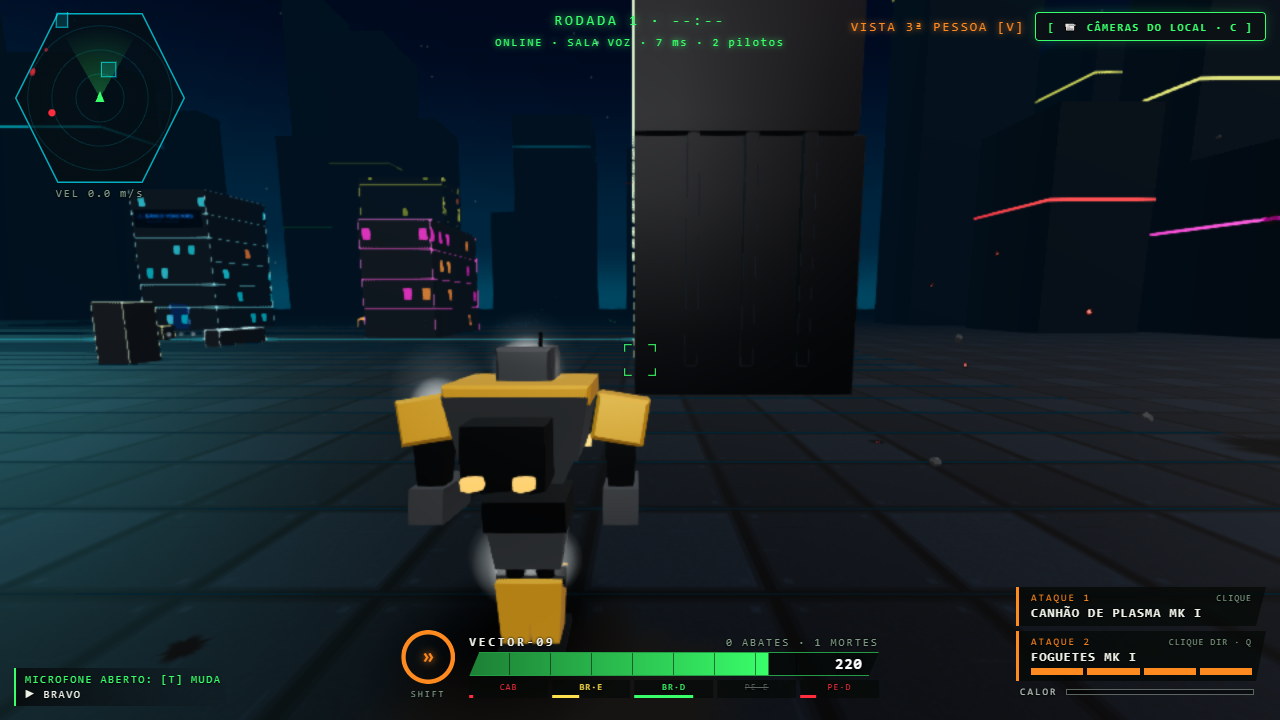
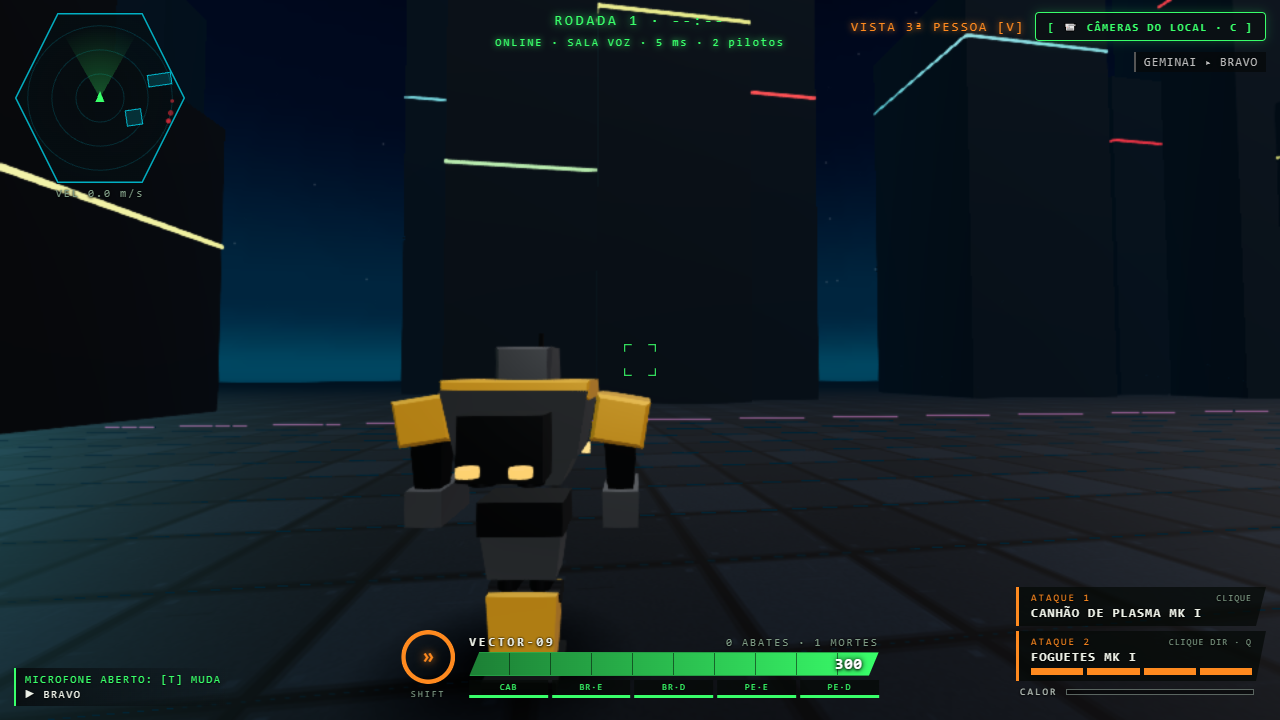
fix(voz): repintar a lista da REDE ao entrar na voz (o botão de mudo só aparecia no evento seguinte da sala) (P228)

diff --git a/client/src/core/Game.ts b/client/src/core/Game.ts
@@ -1328,6 +1328,7 @@ export class Game {
       this.voz = voz;
       this.aplicarVoz(this.settings.value);
       if (this.vozId !== null) voz.entrouNaSala(this.vozId);
+      this.pintarPilotos(); // entrar na voz liga o botão de mudo da lista da REDE (P228): sem isto ele só aparecia no próximo evento da sala
     } catch {
       // O download do pedaço falhou (rede): a voz fica desligada e a próxima mudança de configuração tenta de novo.
     } finally {

diff --git a/.decepticons/ESTADO_ATUAL.md b/.decepticons/ESTADO_ATUAL.md
@@ -21,7 +21,7 @@
 
 ## O MUDO POR JOGADOR NO CHAT DE VOZ — Claude, 20/10 (branch `claude/voz-mudo`, P228)
 
-**Feito:** em Esc > REDE, cada piloto tem **[ SILENCIAR VOZ ]** (aparece só para quem está na voz); silenciar desliga a faixa dele (custo zero), o indicador de quem fala some, e vale até sair da sala. 7 mutações pegas e a prova no Chrome real (`medicoes/voz-jogo.mjs`). **Falta (R13):** a denúncia (decisão do Comandante: para onde vai a queixa) e o mudo sem pausar a partida.
+**Feito:** em Esc > REDE, cada piloto tem **[ SILENCIAR VOZ ]** (aparece só para quem está na voz); silenciar desliga a faixa dele (custo zero), o indicador de quem fala some, e vale até sair da sala. 7 mutações pegas e a prova no Chrome real (`medicoes/voz-jogo.mjs`: o botão aparece, silencia o BRAVO falando e desfaz). **A bancada achou um defeito meu:** o botão só aparecia no próximo evento da sala, porque ninguém repintava a lista ao entrar na voz; corrigido. **Falta (R13):** a denúncia (decisão do Comandante: para onde vai a queixa) e o mudo sem pausar a partida.
 
 
 ## O HOOK NÃO REFAZ O CHECK DEPOIS DE UMA JUNÇÃO PURA COM A MAIN — Claude, 19/10 (branch `claude/hook-juncao`, P225)
